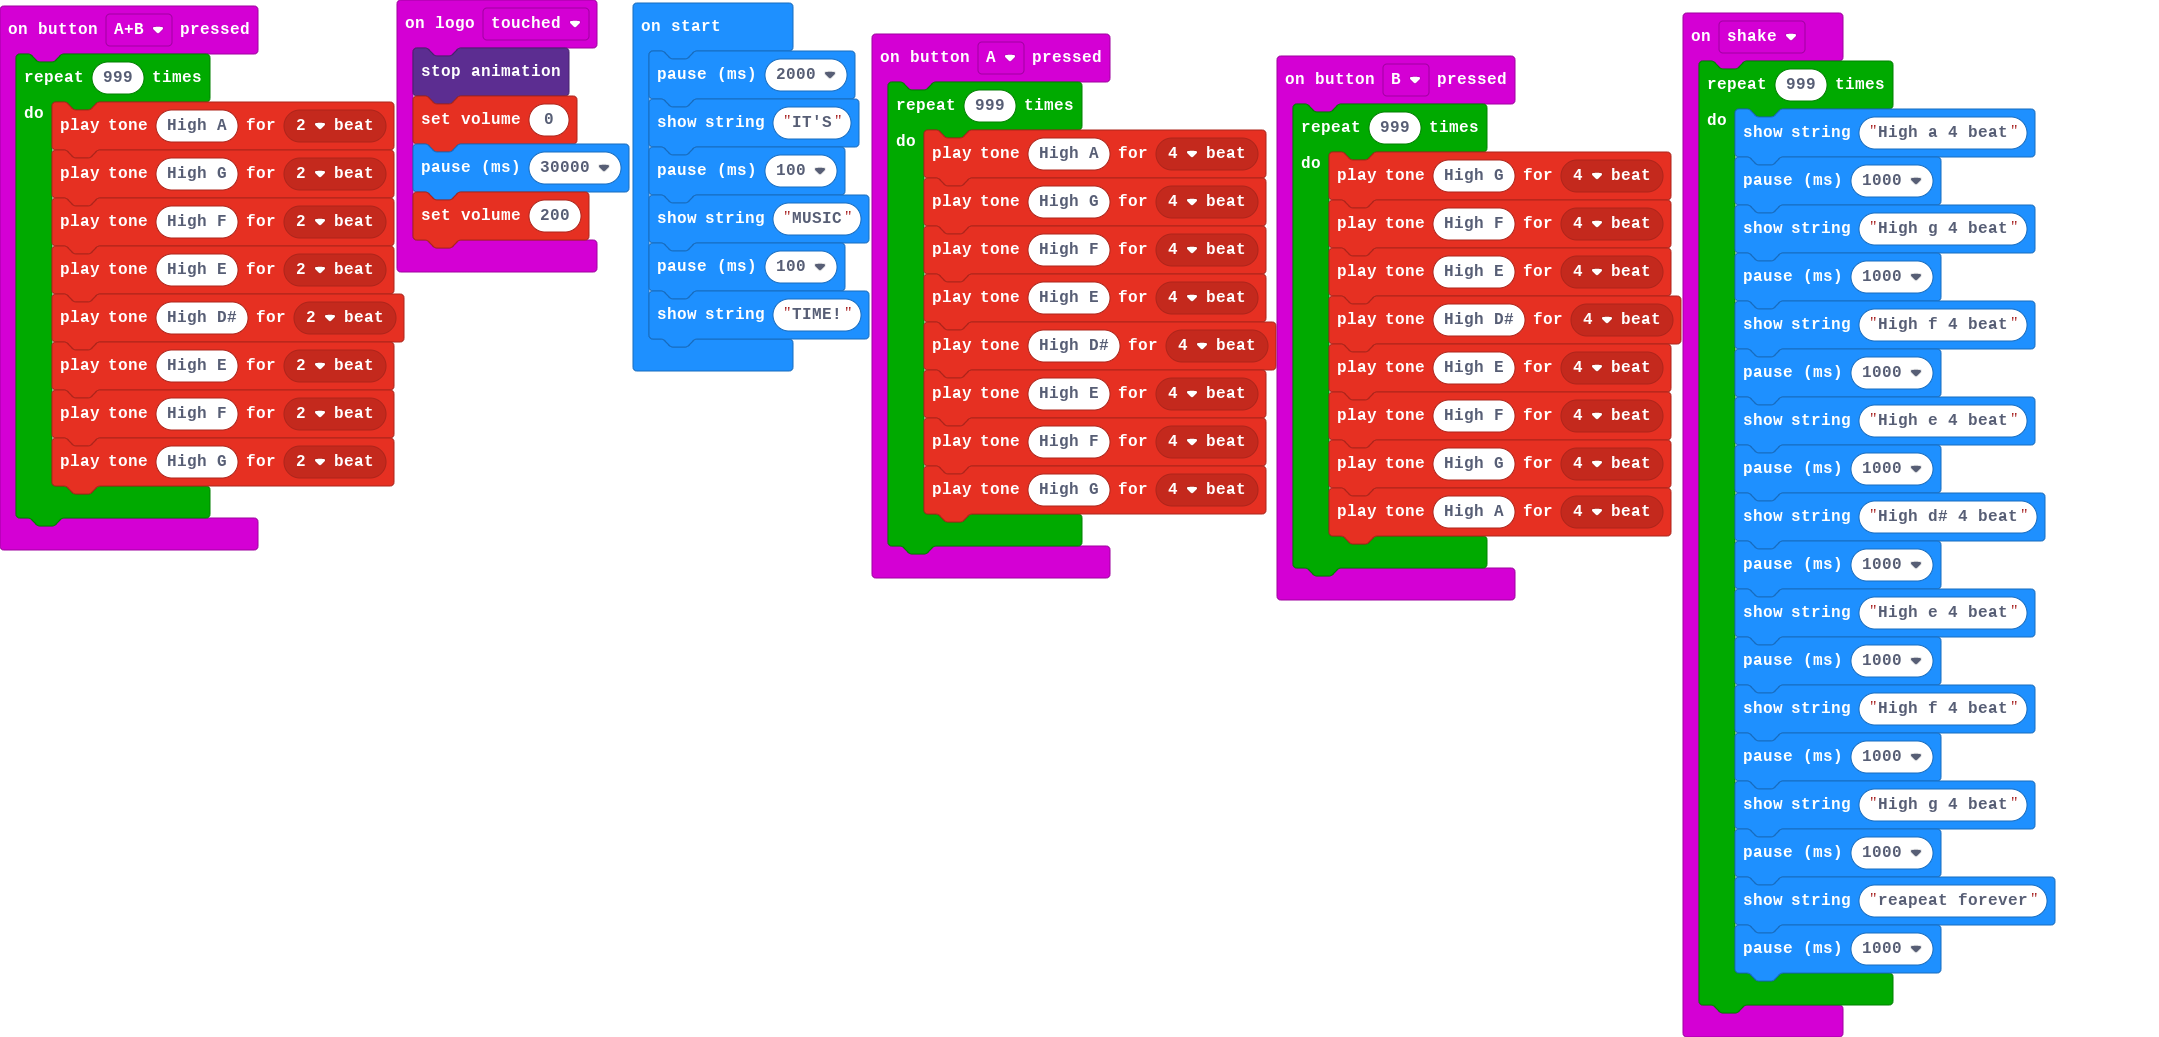
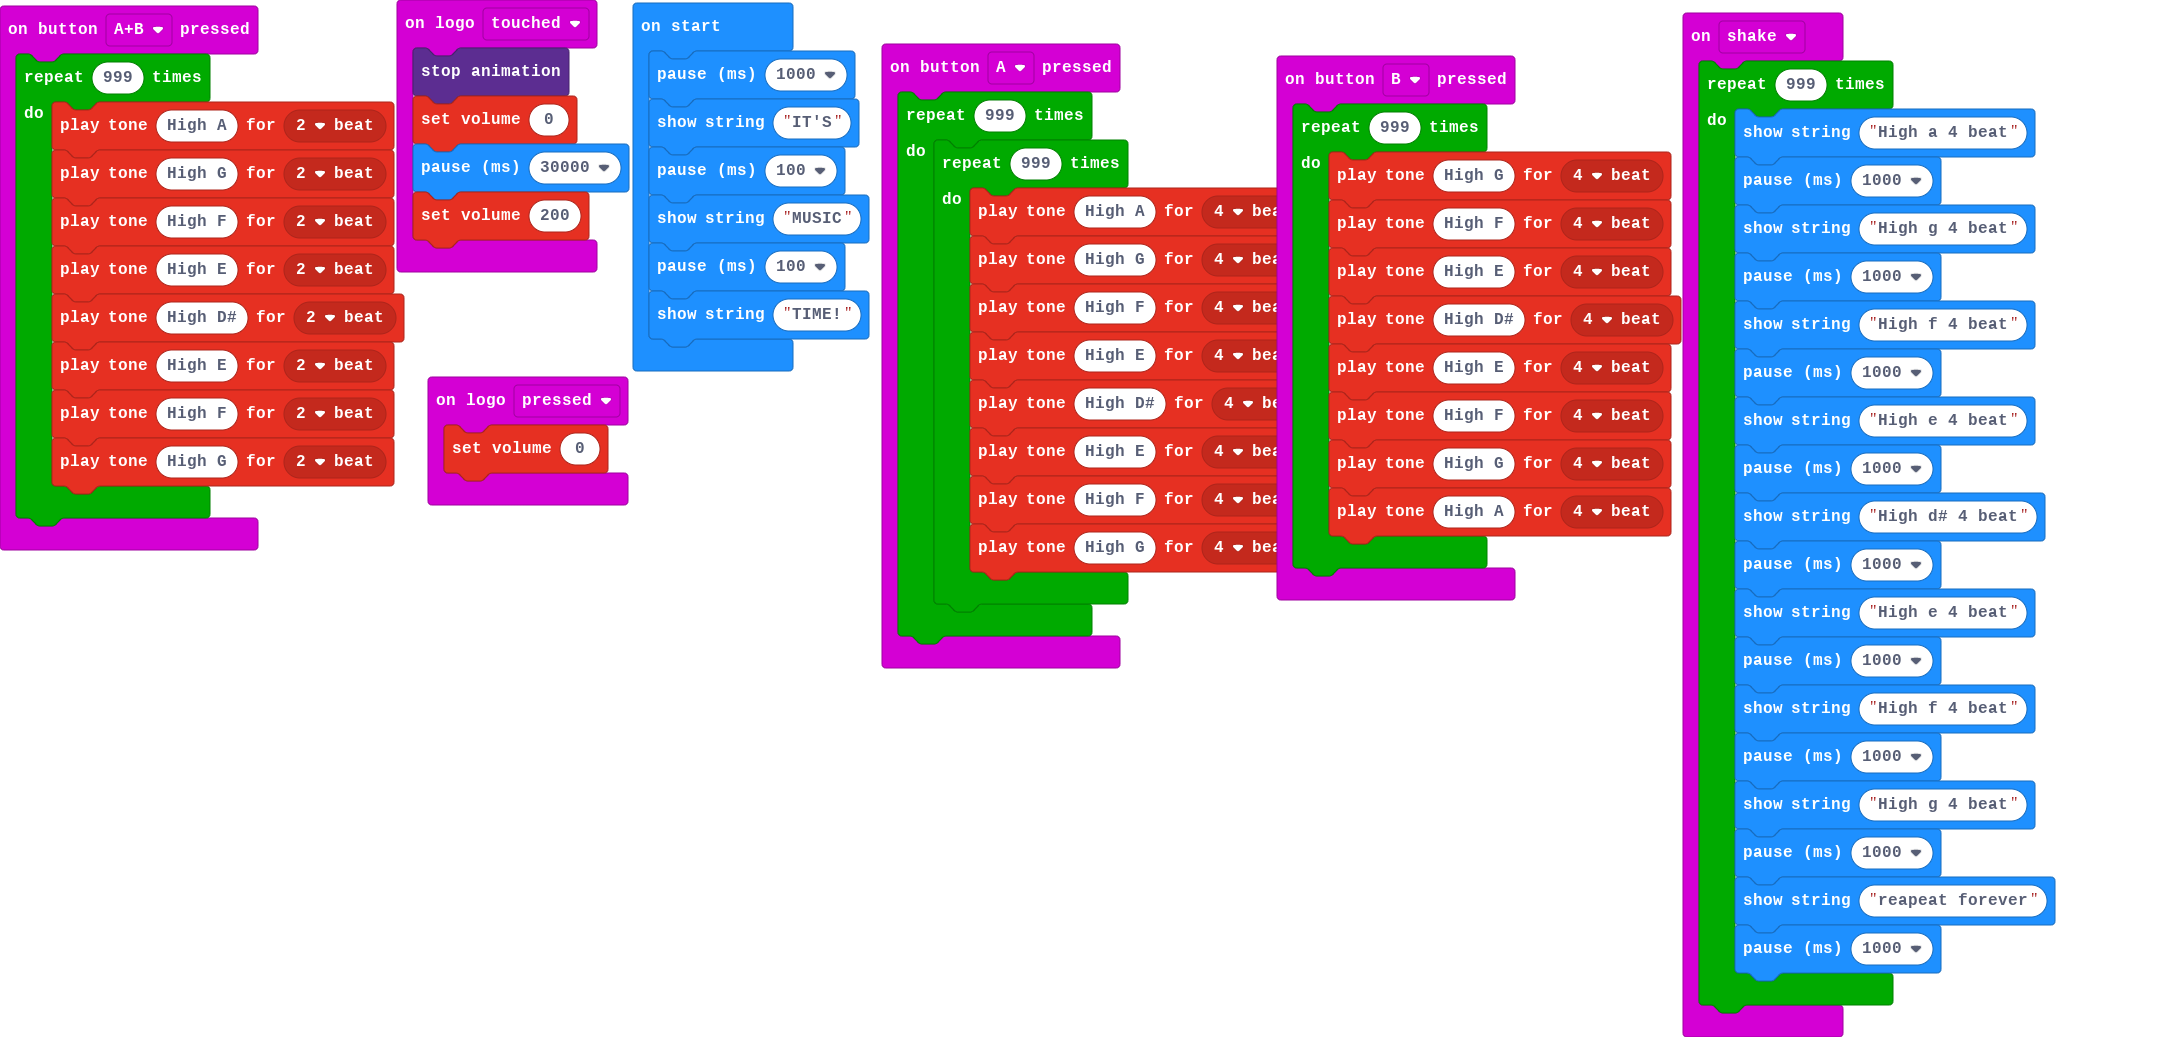
Update pxt.json, main.blocks, main.ts, main.py

Changed region(s): [[0.4034, 0.0309, 0.5896, 0.648], [0.1862, 0.3394, 0.3103, 0.4937]]

diff --git a/main.ts b/main.ts
@@ -1,13 +1,15 @@
 input.onButtonPressed(Button.A, function () {
     for (let index = 0; index < 999; index++) {
-        music.playTone(880, music.beat(BeatFraction.Breve))
-        music.playTone(784, music.beat(BeatFraction.Breve))
-        music.playTone(698, music.beat(BeatFraction.Breve))
-        music.playTone(659, music.beat(BeatFraction.Breve))
-        music.playTone(622, music.beat(BeatFraction.Breve))
-        music.playTone(659, music.beat(BeatFraction.Breve))
-        music.playTone(698, music.beat(BeatFraction.Breve))
-        music.playTone(784, music.beat(BeatFraction.Breve))
+        for (let index = 0; index < 999; index++) {
+            music.playTone(880, music.beat(BeatFraction.Breve))
+            music.playTone(784, music.beat(BeatFraction.Breve))
+            music.playTone(698, music.beat(BeatFraction.Breve))
+            music.playTone(659, music.beat(BeatFraction.Breve))
+            music.playTone(622, music.beat(BeatFraction.Breve))
+            music.playTone(659, music.beat(BeatFraction.Breve))
+            music.playTone(698, music.beat(BeatFraction.Breve))
+            music.playTone(784, music.beat(BeatFraction.Breve))
+        }
     }
 })
 input.onButtonPressed(Button.AB, function () {
@@ -62,7 +64,10 @@ input.onLogoEvent(TouchButtonEvent.Touched, function () {
     basic.pause(30000)
     music.setVolume(200)
 })
-basic.pause(2000)
+input.onLogoEvent(TouchButtonEvent.Pressed, function () {
+    music.setVolume(0)
+})
+basic.pause(1000)
 basic.showString("IT'S")
 basic.pause(100)
 basic.showString("MUSIC")

diff --git a/main.py b/main.py
@@ -1,0 +1,76 @@
+def on_button_pressed_a():
+    for index in range(999):
+        for index2 in range(999):
+            music.play_tone(880, music.beat(BeatFraction.BREVE))
+            music.play_tone(784, music.beat(BeatFraction.BREVE))
+            music.play_tone(698, music.beat(BeatFraction.BREVE))
+            music.play_tone(659, music.beat(BeatFraction.BREVE))
+            music.play_tone(622, music.beat(BeatFraction.BREVE))
+            music.play_tone(659, music.beat(BeatFraction.BREVE))
+            music.play_tone(698, music.beat(BeatFraction.BREVE))
+            music.play_tone(784, music.beat(BeatFraction.BREVE))
+input.on_button_pressed(Button.A, on_button_pressed_a)
+
+def on_button_pressed_ab():
+    for index3 in range(999):
+        music.play_tone(880, music.beat(BeatFraction.DOUBLE))
+        music.play_tone(784, music.beat(BeatFraction.DOUBLE))
+        music.play_tone(698, music.beat(BeatFraction.DOUBLE))
+        music.play_tone(659, music.beat(BeatFraction.DOUBLE))
+        music.play_tone(622, music.beat(BeatFraction.DOUBLE))
+        music.play_tone(659, music.beat(BeatFraction.DOUBLE))
+        music.play_tone(698, music.beat(BeatFraction.DOUBLE))
+        music.play_tone(784, music.beat(BeatFraction.DOUBLE))
+input.on_button_pressed(Button.AB, on_button_pressed_ab)
+
+def on_button_pressed_b():
+    for index4 in range(999):
+        music.play_tone(784, music.beat(BeatFraction.BREVE))
+        music.play_tone(698, music.beat(BeatFraction.BREVE))
+        music.play_tone(659, music.beat(BeatFraction.BREVE))
+        music.play_tone(622, music.beat(BeatFraction.BREVE))
+        music.play_tone(659, music.beat(BeatFraction.BREVE))
+        music.play_tone(698, music.beat(BeatFraction.BREVE))
+        music.play_tone(784, music.beat(BeatFraction.BREVE))
+        music.play_tone(880, music.beat(BeatFraction.BREVE))
+input.on_button_pressed(Button.B, on_button_pressed_b)
+
+def on_gesture_shake():
+    for index5 in range(999):
+        basic.show_string("High a 4 beat")
+        basic.pause(1000)
+        basic.show_string("High g 4 beat")
+        basic.pause(1000)
+        basic.show_string("High f 4 beat")
+        basic.pause(1000)
+        basic.show_string("High e 4 beat")
+        basic.pause(1000)
+        basic.show_string("High d# 4 beat")
+        basic.pause(1000)
+        basic.show_string("High e 4 beat")
+        basic.pause(1000)
+        basic.show_string("High f 4 beat")
+        basic.pause(1000)
+        basic.show_string("High g 4 beat")
+        basic.pause(1000)
+        basic.show_string("reapeat forever")
+        basic.pause(1000)
+input.on_gesture(Gesture.SHAKE, on_gesture_shake)
+
+def on_logo_touched():
+    led.stop_animation()
+    music.set_volume(0)
+    basic.pause(30000)
+    music.set_volume(200)
+input.on_logo_event(TouchButtonEvent.TOUCHED, on_logo_touched)
+
+def on_logo_pressed():
+    music.set_volume(0)
+input.on_logo_event(TouchButtonEvent.PRESSED, on_logo_pressed)
+
+basic.pause(1000)
+basic.show_string("IT'S")
+basic.pause(100)
+basic.show_string("MUSIC")
+basic.pause(100)
+basic.show_string("TIME!")
